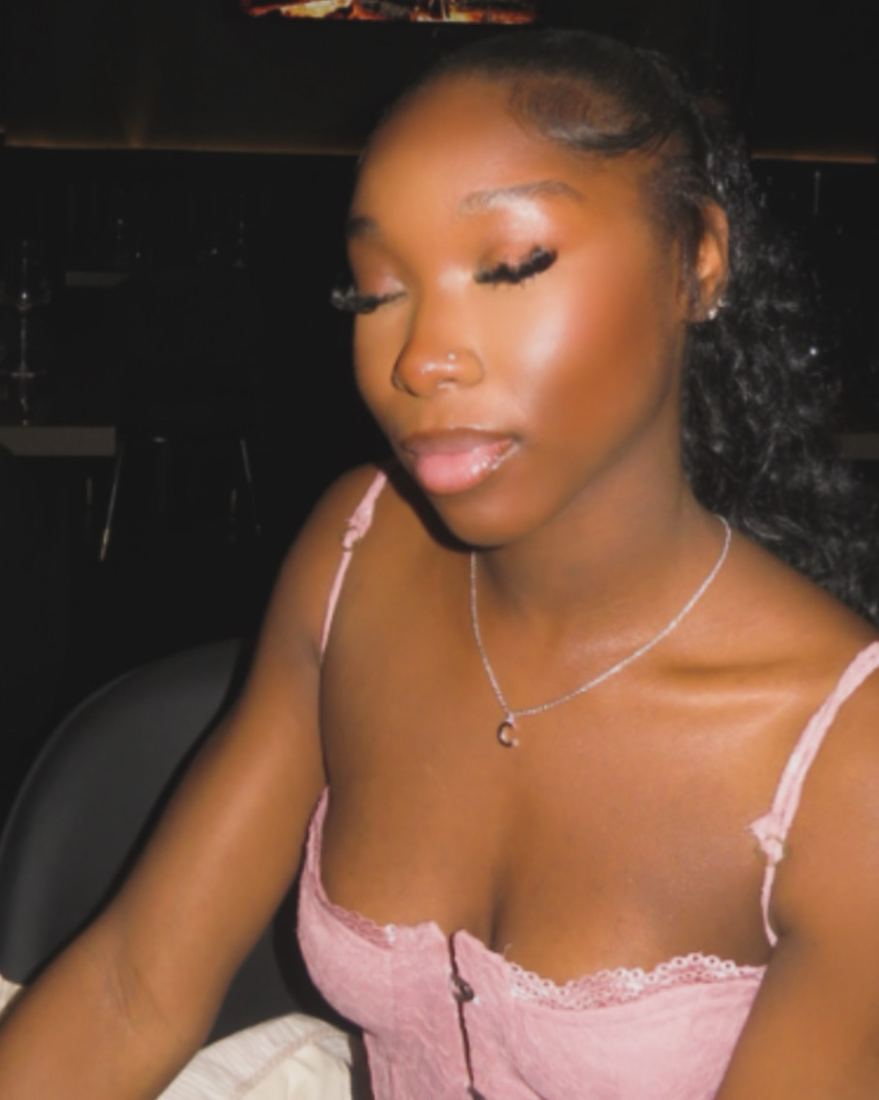
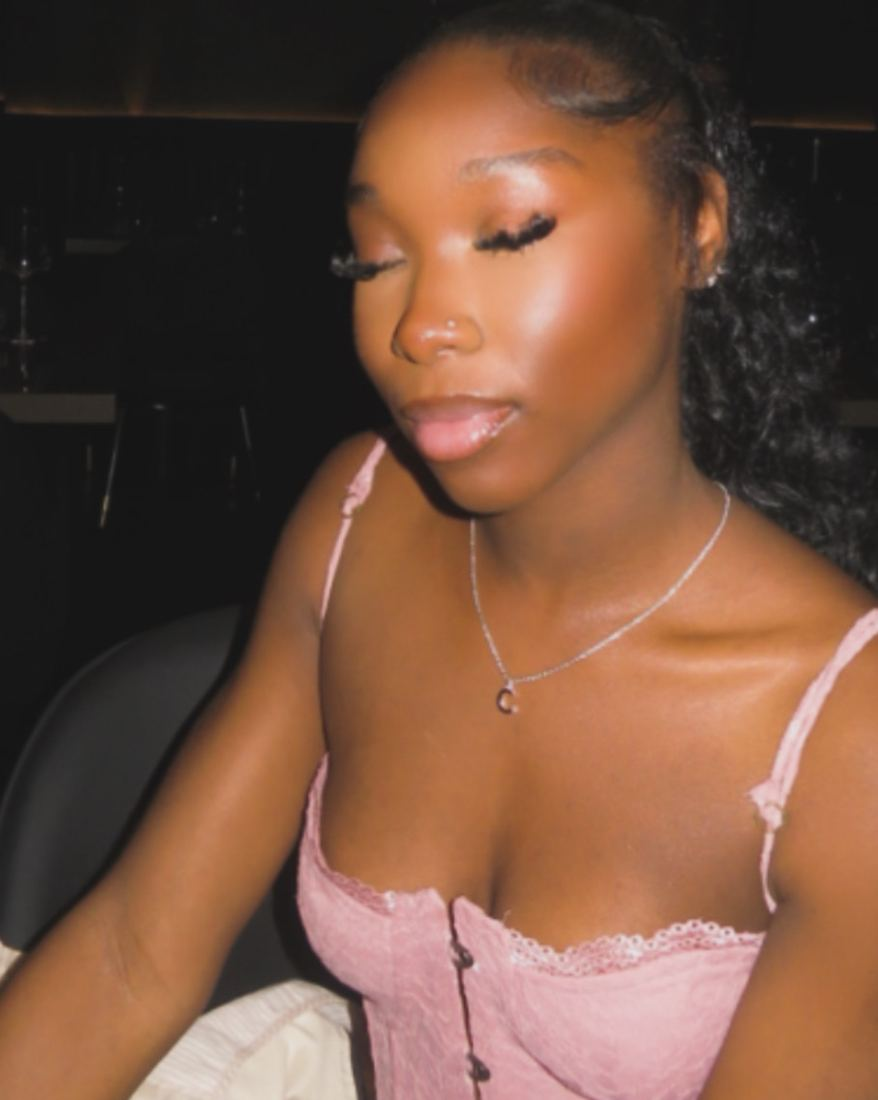
Connect booking page and simplify policies
Book Now buttons open the Acuity booking page. Removed deposits,
cancellation and late fees, extra-charge wording and the Hair
Preparation add-on for now. Extension hair must be pre-stretched.
Smaller photo on the About page.

Claude-Session: https://claude.ai/code/session_01URr7agjkxpwXRQNfbos7aw

diff --git a/index.html b/index.html
@@ -130,8 +130,8 @@ section.block{padding-top:clamp(40px,6vw,72px);scroll-margin-top:76px}
 .band .btn-gold{white-space:nowrap}
 
 /* about */
-.split{display:grid;grid-template-columns:.9fr 1.1fr;gap:clamp(24px,5vw,64px);align-items:center}
-.split .arch{max-width:420px;width:100%;margin-inline:auto}
+.split{display:grid;grid-template-columns:.7fr 1.3fr;gap:clamp(24px,5vw,64px);align-items:center}
+.split .arch{max-width:290px;width:100%;margin-inline:auto}
 .pills{display:flex;flex-wrap:wrap;gap:8px;margin-top:20px}
 .pills span{padding:8px 16px;border:1px solid var(--line);border-radius:999px;background:var(--paper);font-size:.74rem;letter-spacing:.16em;text-transform:uppercase;color:var(--mocha)}
 
@@ -208,6 +208,7 @@ footer .fine{font-size:.82rem;color:var(--mocha)}
   .links.open{display:flex}
   .links a{padding:14px 0;border-bottom:1px solid var(--line);font-size:.78rem}
   .hero,.split{grid-template-columns:1fr}
+  .split .arch{max-width:230px}
   .collage{width:min(88%,380px)}
   .facts,.fees{grid-template-columns:1fr 1fr}
   .three,.contact-grid{grid-template-columns:1fr}
@@ -287,13 +288,13 @@ footer .fine{font-size:.82rem;color:var(--mocha)}
     <div class="sec-head"><span class="eyebrow">Before you book</span><h2>Good to know</h2></div>
     <div class="three">
       <a class="link-card" href="#services" data-go><h3>Services &amp; Pricing</h3><span>Every style, with add-ons.</span><em>View styles →</em></a>
-      <a class="link-card" href="#policies" data-go><h3>Policies</h3><span>Deposits, timings, hair and preparation.</span><em>Read before booking →</em></a>
+      <a class="link-card" href="#policies" data-go><h3>Policies</h3><span>Timings, hair and preparation.</span><em>Read before booking →</em></a>
       <a class="link-card" href="#faqs" data-go><h3>FAQs</h3><span>Aftercare, longevity and changes.</span><em>Quick answers →</em></a>
     </div>
   </section>
 
   <div class="band">
-    <div><h2>Ready for your appointment?</h2><p>A 25% deposit secures your slot.</p></div>
+    <div><h2>Ready for your appointment?</h2><p>Choose your style and book your slot online.</p></div>
     <a class="btn btn-gold" href="#book" data-go>Book Now</a>
   </div>
 </div>
@@ -331,37 +332,27 @@ footer .fine{font-size:.82rem;color:var(--mocha)}
   <section class="block" id="sec-policies">
     <div class="sec-head"><span class="eyebrow">Section 1</span><h2>Policies</h2></div>
     <div class="facts">
-      <div class="fact"><b>25%</b><span>deposit secures your slot</span></div>
+      <div class="fact"><b>Pre-stretched</b><span>extension hair only</span></div>
       <div class="fact"><b>15 min</b><span>grace period</span></div>
-      <div class="fact"><b>Cash</b><span>balance on the day</span></div>
+      <div class="fact"><b>Cash</b><span>payment on the day</span></div>
       <div class="fact"><b>1 guest</b><span>with advance notice</span></div>
     </div>
-
-    <h3 style="margin-bottom:14px">Cancellation fees</h3>
-    <div class="fees">
-      <div class="fee"><small>48 hours or more</small><b>No fee</b><span>No late-cancellation fee. The deposit remains non-refundable.</span></div>
-      <div class="fee"><small>Within 48 hours</small><b>25%</b><span>of the full service price.</span></div>
-      <div class="fee"><small>Within 24 hours</small><b>50%</b><span>of the full service price.</span></div>
-      <div class="fee"><small>No-show</small><b>100%</b><span>The full service price applies.</span></div>
-    </div>
-    <p class="muted" style="max-width:68ch;margin-bottom:28px">Any deposit already paid is deducted from the applicable cancellation fee. Payment collection and any use of stored payment details follow the agreed booking terms and applicable law. If Cee.Lux Studio needs to cancel, you will be offered rescheduling or a refund in line with applicable requirements.</p>
 
     <div class="acc">
       <details open><summary>Appointments</summary><div class="in"><ul>
         <li>Cee.Lux Studio operates by appointment only. Walk-ins are not accepted.</li>
         <li>Arrive prepared for your selected service and allow enough time for your appointment.</li>
-        <li>Emergency appointments may be considered on request, subject to availability, and may cost extra.</li></ul></div></details>
-      <details><summary>Deposits and payments</summary><div class="in"><ul>
-        <li>A deposit is required to secure an appointment.</li>
-        <li>The deposit is 25% of the standard price of your service and is deducted from the total.</li>
-        <li>Deposits are non-refundable, subject to applicable consumer rights and legal requirements.</li>
-        <li>The remaining balance is payable in cash on the day.</li>
-        <li>Please bring the correct balance where possible. Change of up to £5 may be returned by bank transfer.</li></ul></div></details>
+        <li>Emergency appointments may be considered on request, subject to availability.</li></ul></div></details>
+      <details><summary>Payments</summary><div class="in"><ul>
+        <li>Payment is due in cash on the day of your appointment.</li>
+        <li>Please bring the correct amount where possible. Change of up to £5 may be returned by bank transfer.</li></ul></div></details>
       <details><summary>Late arrivals</summary><div class="in"><ul>
         <li>A 15-minute grace period is provided.</li>
-        <li>After the first 15 minutes, a £5 late fee applies for every additional five minutes.</li>
-        <li>The maximum waiting time is 30 minutes. Later arrivals may result in cancellation and the appointment being treated as a no-show.</li>
+        <li>The maximum waiting time is 30 minutes. Later arrivals may result in the appointment being cancelled.</li>
         <li>Please contact Cee.Lux Studio as soon as possible if you expect to be late.</li></ul></div></details>
+      <details><summary>Cancellations and rescheduling</summary><div class="in"><ul>
+        <li>Please contact Cee.Lux Studio as soon as possible if you need to cancel or reschedule, so your slot can be offered to someone else.</li>
+        <li>If Cee.Lux Studio needs to cancel, you will be offered a new appointment.</li></ul></div></details>
       <details><summary>Guests</summary><div class="in"><ul>
         <li>One guest is permitted, provided advance notice is given.</li>
         <li>Guests must stay in the designated area and respect the privacy of the accommodation.</li>
@@ -374,8 +365,8 @@ footer .fine{font-size:.82rem;color:var(--mocha)}
     <div class="sec-head"><span class="eyebrow">Section 2</span><h2>Extensions &amp; wig quality</h2><p class="muted">The hair requirements for braids, twists, locs and wig services.</p></div>
     <div class="acc">
       <details open><summary>Extension hair</summary><div class="in"><ul>
-        <li>Extension hair for braided styles must be pre-pulled before the appointment.</li>
-        <li>If you need Cee.Lux to pull hair that is not already pulled, select the Hair Preparation add-on. Extra appointment time may be needed.</li>
+        <li>Extension hair for braided styles must be pre-stretched (pre-pulled) before the appointment.</li>
+        <li>Appointments will be cancelled if you bring non-stretched hair.</li>
         <li>You are responsible for buying the correct type, colour, length and quantity of hair for your style, and enough of it to finish the style.</li>
         <li>Hair quality, texture and colour can affect the final result.</li>
         <li>Unsure what to buy? Contact Cee.Lux Studio before booking.</li></ul></div></details>
@@ -403,7 +394,7 @@ footer .fine{font-size:.82rem;color:var(--mocha)}
       <details><summary>What to arrive with</summary><div class="in"><p>Your natural hair should be prepared for your booked service. For example, if you have booked a frontal installation without the Underwig Cornrows add-on, please arrive with your natural hair in a minimum of eight cornrows.</p></div></details>
       <details><summary>Come prepared</summary><div class="in"><p>Bring everything you need for your appointment, including the correct payment method, to avoid delays.</p></div></details>
     </div>
-    <div class="callout"><b>Please note:</b> hair preparation is the client’s responsibility. If extra preparation is needed on arrival, it may affect your appointment time and could cost extra.</div>
+    <div class="callout"><b>Please note:</b> hair preparation is the client’s responsibility. If extra preparation is needed on arrival, it may affect your appointment time.</div>
   </section>
 
   <section class="block" id="sec-fac">
@@ -427,11 +418,11 @@ footer .fine{font-size:.82rem;color:var(--mocha)}
   <div class="page-head">
     <span class="eyebrow">FAQs</span>
     <h1 tabindex="-1" data-focus>Quick answers</h1>
-    <p class="lead">Open only the questions you need. Deposits, timings and hair requirements are on the <a href="#policies" data-go>Policies</a> page.</p>
+    <p class="lead">Open only the questions you need. Timings, payments and hair requirements are on the <a href="#policies" data-go>Policies</a> page.</p>
   </div>
   <div class="acc">
     <details open><summary>Can I change my hairstyle after booking?</summary><div class="in">
-      <p>Please contact Cee.Lux Studio as soon as possible. Changes may be approved if the new style needs a similar appointment duration and availability allows. There is no style-change fee for an approved change that takes a similar amount of time.</p>
+      <p>Please contact Cee.Lux Studio as soon as possible. Changes may be approved if the new style needs a similar appointment duration and availability allows.</p>
       <p>Once the appointment has started, style changes are not permitted, except for removing an add-on where appropriate.</p></div></details>
     <details><summary>How long will my appointment take?</summary><div class="in">
       <p>Estimated durations are given in the service descriptions. They are guides, not guarantees, as timing depends on the style, your hair preparation and your individual needs. Appointments may finish earlier or run longer than expected, so please allow extra time.</p></div></details>
@@ -474,7 +465,7 @@ footer .fine{font-size:.82rem;color:var(--mocha)}
   <div class="page-head">
     <span class="eyebrow">Services &amp; Pricing</span>
     <h1 tabindex="-1" data-focus>Styles</h1>
-    <p class="lead">Choose your style. A 25% deposit secures your appointment. Details are on the <a href="#policies" data-go>Policies</a> page.</p>
+    <p class="lead">Choose your style, then book online. Read the <a href="#policies" data-go>Policies</a> page before your appointment.</p>
   </div>
   <div class="cards" id="svc"></div>
 
@@ -516,7 +507,7 @@ footer .fine{font-size:.82rem;color:var(--mocha)}
     <div class="cbox">
       <span class="eyebrow">Availability</span>
       <h3>9:00 AM – 7:00 PM</h3>
-      <p class="muted">Standard appointment hours. Appointments before 9:00 AM or after 7:00 PM may be available on request, subject to availability. Please contact Cee.Lux Studio in advance. Additional charges may apply.</p>
+      <p class="muted">Standard appointment hours. Appointments before 9:00 AM or after 7:00 PM may be available on request, subject to availability. Please contact Cee.Lux Studio in advance.</p>
     </div>
     <div class="cbox">
       <span class="eyebrow">Location</span>
@@ -537,7 +528,7 @@ footer .fine{font-size:.82rem;color:var(--mocha)}
     <div class="steps">
       <div><i>1</i><p>Pick your style from <a href="#services" data-go>Services &amp; Pricing</a>.</p></div>
       <div><i>2</i><p>Read the <a href="#policies" data-go>Policies</a> and prepare your hair and extensions.</p></div>
-      <div><i>3</i><p>Have your 25% deposit ready to secure your appointment.</p></div>
+      <div><i>3</i><p>Choose a date and time that suits you on the booking page.</p></div>
     </div>
     <div class="row" style="justify-content:center">
       <a class="btn btn-dark" id="bookBtn" href="https://www.instagram.com/cee.luxstudio/" target="_blank" rel="noopener">Message on Instagram</a>
@@ -567,7 +558,7 @@ footer .fine{font-size:.82rem;color:var(--mocha)}
 
 <script>
 /* ---- CONTENT: edit here ---- */
-var BOOKING_URL = '';   // paste the booking page link here when it is ready; Book Now then points to it
+var BOOKING_URL = 'https://ceeluxbooking.as.me/schedule/b6cbec37';   // booking page; every Book Now button opens it
 var IMG = {
  "slick": "images/slick.jpg",
  "wig": "images/wig.jpg",
@@ -596,7 +587,6 @@ var REFS = [
   {k:'refS', t:'Small twist', tag:'Reference · not Cee.Lux work', d:'Smaller twists with finer parts.'}
 ];
 var ADDONS = [
-  ['Hair Preparation','Cee.Lux pulls and prepares extension hair that has not been pre-pulled. Extra appointment time may be needed.'],
   ['Underwig Cornrows','Your natural hair is cornrowed neatly under a wig install. Choose this if you are not arriving with a minimum of eight cornrows.']
 ];
 var FEATURED = ['large','locs','small','slick'];
@@ -630,7 +620,10 @@ var FEATURED = ['large','locs','small','slick'];
   $('addons').innerHTML=ADDONS.map(function(a,i){return '<details'+(i===0?' open':'')+'><summary>'+esc(a[0])+'</summary><div class="in"><p>'+esc(a[1])+'</p></div></details>'}).join('');
 
   /* booking link */
-  if(BOOKING_URL){var b=$('bookBtn');b.href=BOOKING_URL;b.textContent='Continue to booking';$('bookLead').textContent='Choose your style and appointment time on the booking page.'}
+  if(BOOKING_URL){
+    var b=$('bookBtn');b.href=BOOKING_URL;b.textContent='Continue to booking';$('bookLead').textContent='Choose your style and appointment time on the booking page.';
+    Array.prototype.forEach.call(document.querySelectorAll('a[href="#book"]'),function(a){a.href=BOOKING_URL;a.target='_blank';a.rel='noopener';a.removeAttribute('data-go')});
+  }
 
   /* routing */
   var PAGES=['home','about','policies','faqs','services','contact','book'];
